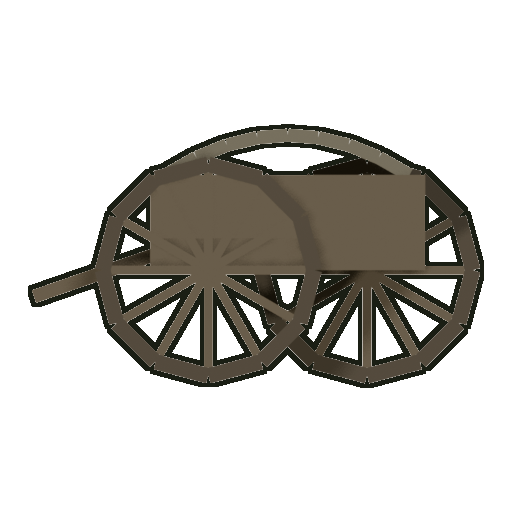
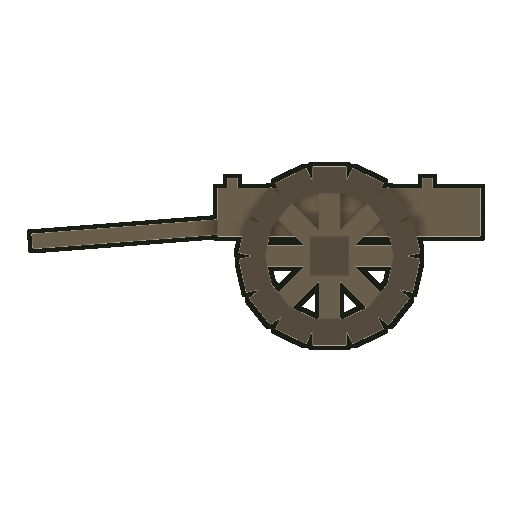
Replace the covered wagon with an ox cart
Spotted in a Mekong frame: the cart's wheel was the largest circle anywhere in
the picture and the only thing in it that curved, so the eye went straight to
it — and it was a European carriage wheel, twelve rim segments on six thin
spokes, under a canvas tilt arched on hoops. A Conestoga in the delta. This is
the same fault as the fantasy props replaced earlier, just better hidden,
because "cart_v" had already been renamed for Vietnam without the shape
changing much.

A delta cart is plainer: a heavy wooden wheel with four thick spokes and a broad
hub, an open slatted bed with a low rail on stanchions, and two long shafts,
because an ox stands between them rather than pulling on a yoke behind.

One bug worth the comment now in the source: `_box(mat, x0, y0, z0, x1, y1, z1)`
is corner to corner, NOT three (min, max) pairs. Reading it as pairs collapsed
the bed and hung a slat below the axle, and the first rebuild rendered as a
wheel with a stick through it.

Props still 29 MB, total 118.3 of 130.

Changed region(s): [[0.0312, 0.2188, 0.9688, 0.7812], [0.6562, 0.375, 0.6875, 0.4375]]

diff --git a/tools/render_props.py b/tools/render_props.py
@@ -757,38 +757,55 @@ def build_stallviet():
 
 
 def build_cartviet():
-    """A two-wheel wooden cart. Big spoked wheels, a woven cover, shafts down.
+    """A Vietnamese ox cart: two heavy wheels, a slatted bed, shafts for the ox.
 
-    Replaces a European handcart. The wheels are what carry it at game size, so
-    they are built as real rims and spokes rather than discs.
+    The previous version was a covered wagon — a twelve-segment rim on six thin
+    spokes, which at any size reads as a European carriage wheel, under a canvas
+    tilt arched on hoops, which reads as a Conestoga. Both were caught in a
+    Mekong frame, where that wheel was the largest circle in the picture and the
+    only thing in it that curved.
+
+    A delta cart is plainer: a heavy wooden wheel with four thick spokes and a
+    broad hub, an open slatted bed with a low rail, and two long shafts, because
+    an ox stands between them rather than pulling on a yoke behind.
+
+    NOTE the signature — _box(mat, x0, y0, z0, x1, y1, z1) is corner to corner,
+    NOT three (min, max) pairs. Reading it as pairs collapsed the bed and hung a
+    slat below the axle, and the cart rendered as a wheel with a stick in it.
     """
     wood = _pmat('cv_wood', (0.118, 0.086, 0.050))
     dark = _pmat('cv_dark', (0.062, 0.048, 0.032))
-    weave = _pmat('cv_weave', (0.155, 0.140, 0.092))
     import math as _m
-    _box(wood, -0.52, -0.30, 0.40, 0.52, 0.30, 0.52)          # bed
-    _box(wood, -0.52, -0.32, 0.52, 0.52, -0.26, 0.76)         # side boards
-    _box(wood, -0.52, 0.26, 0.52, 0.52, 0.32, 0.76)
-    # a woven cover arched over the bed
-    cov = _curve(-0.46, 0.76, 0.46, 0.76, bow=0.30, segs=8)
-    for i in range(len(cov) - 1):
-        _beam(weave, cov[i][0], cov[i][1], cov[i + 1][0], cov[i + 1][1],
-              t=0.026, y=0.0, yt=0.30)
-    for side in (-1, 1):                                       # two wheels
-        cx, cz, R = side * 0.30, 0.40, 0.40
-        for k in range(12):                                    # rim
-            a0 = (k / 12.0) * _m.pi * 2
-            a1 = ((k + 1) / 12.0) * _m.pi * 2
+    _box(wood, -0.54, -0.30, 0.46, 0.54, 0.30, 0.56)           # bed floor
+    for k in range(6):                                         # cross slats
+        x = -0.50 + k * 0.185
+        _box(dark, x, -0.30, 0.56, x + 0.05, 0.30, 0.585)
+    _box(wood, -0.54, -0.32, 0.56, 0.54, -0.26, 0.66)          # low side rails
+    _box(wood, -0.54, 0.26, 0.56, 0.54, 0.32, 0.66)
+    for sx in (-0.50, -0.10, 0.30):                            # rail stanchions
+        for side in (-1, 1):
+            _box(wood, sx, side * 0.29 - 0.022, 0.56,
+                 sx + 0.044, side * 0.29 + 0.022, 0.70)
+
+    for side in (-1, 1):
+        cx, cz, R = -0.08, 0.38, 0.32
+        for k in range(14):                                    # heavy rim
+            a0 = (k / 14.0) * _m.pi * 2
+            a1 = ((k + 1) / 14.0) * _m.pi * 2
             _beam(dark, cx + _m.cos(a0) * R, cz + _m.sin(a0) * R,
                   cx + _m.cos(a1) * R, cz + _m.sin(a1) * R,
-                  t=0.030, y=side * 0.32, yt=0.028)
-        for k in range(6):                                     # spokes
-            a = (k / 6.0) * _m.pi
-            _beam(wood, cx - _m.cos(a) * R * 0.92, cz - _m.sin(a) * R * 0.92,
-                  cx + _m.cos(a) * R * 0.92, cz + _m.sin(a) * R * 0.92,
-                  t=0.017, y=side * 0.32, yt=0.016)
-    _beam(wood, -0.50, 0.46, -0.96, 0.30, t=0.026, y=-0.16, yt=0.024)   # shafts
-    _beam(wood, -0.50, 0.46, -0.96, 0.30, t=0.026, y=0.16, yt=0.024)
+                  t=0.055, y=side * 0.33, yt=0.050)
+        for k in range(4):                                     # four thick spokes
+            a = (k / 4.0) * _m.pi
+            _beam(wood, cx - _m.cos(a) * R * 0.88, cz - _m.sin(a) * R * 0.88,
+                  cx + _m.cos(a) * R * 0.88, cz + _m.sin(a) * R * 0.88,
+                  t=0.044, y=side * 0.33, yt=0.042)
+        _box(dark, cx - 0.08, side * 0.33 - 0.055, cz - 0.08,
+             cx + 0.08, side * 0.33 + 0.055, cz + 0.08)        # broad hub
+    # shafts, long and near level — an ox stands between them
+    for side in (-1, 1):
+        _beam(wood, -0.52, 0.50, -1.30, 0.44, t=0.032, y=side * 0.17, yt=0.030)
+    _box(wood, -1.30, -0.20, 0.42, -1.24, 0.20, 0.47)          # yoke bar
 
 
 BUILT = {
